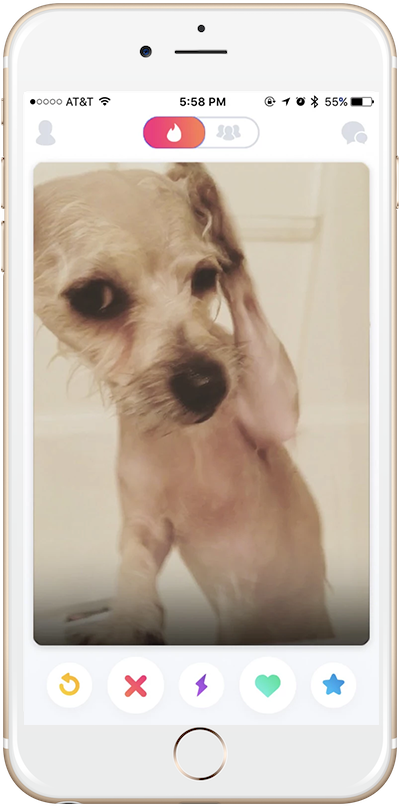
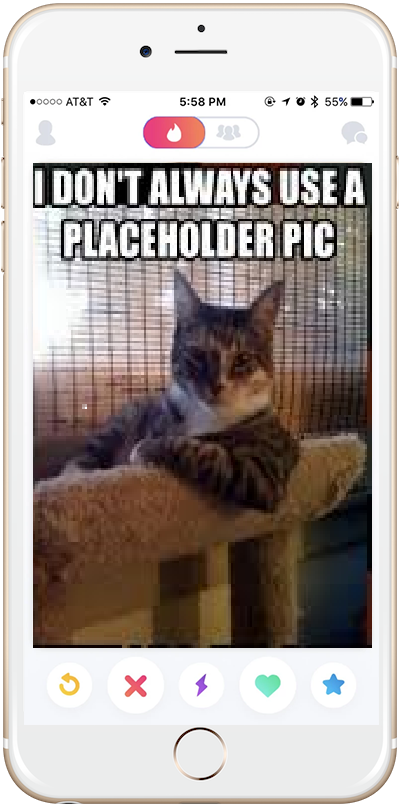
misc theme changes

diff --git a/index.html b/index.html
@@ -15,7 +15,7 @@
     <!-- Google Fonts -->
     <link href="https://fonts.googleapis.com/css?family=Montserrat:300,400,900&display=swap|Ubuntu&display=swap" rel="stylesheet">
 
-    <title>Placeholder</title>
+    <title>&#9749;The Placeholder</title>
 
   </head>
 
@@ -28,7 +28,7 @@
       Extra properties: "fixed-top" -->
 
         <nav class="navbar navbar-expand-lg navbar-dark">
-          <a class="navbar-brand" href="#">TinDog<i class="fas fa-trademark tm"></i></a>
+          <a class="navbar-brand" href="#">PlaceHolder<i class="fas fa-trademark tm"></i></a>
           <button class="navbar-toggler" type="button" data-toggle="collapse" data-target="#navbarSupportedContent" aria-controls="navbarSupportedContent" aria-expanded="false" aria-label="Toggle navigation">
             <span class="navbar-toggler-icon"></span>
           </button>
@@ -53,7 +53,7 @@
         <!-- Title -->
         <div class="row">
           <div class="col-lg-6">
-            <h1 class="promo-heading">Meet new and interesting dogs nearby.</h1>
+            <h1 class="promo-heading">Not just any generic placeholder!</h1>
             <button type="button" class="btn btn-lg btn-dark download-button"> <i class="fab fa-apple"></i> Download</button>
             <button type="button" class="btn btn-lg btn-outline-light download-button"><i class="fab fa-google-play"></i> Download</button>
           </div>
@@ -72,19 +72,19 @@
         <div class="col-lg-4 feature-box">
           <i class="fas fa-check-circle icons fa-5x"></i>
           <h3>Easy to use.</h3>
-          <p>So easy to use, even your dog could do it.</p>
+          <p>So easy to use, even a placeholder could do it.</p>
         </div>
 
         <div class="col-lg-4 feature-box">
           <i class="fas fa-bullseye icons fa-5x"></i>
           <h3>Elite Clientele</h3>
-          <p>We have all the dogs, the greatest dogs.</p>
+          <p>We have all the placeholders, the greatest placeholders.</p>
         </div>
 
         <div class="col-lg-4 feature-box">
           <i class="fas fa-heart icons fa-5x"></i>
           <h3>Guaranteed to work.</h3>
-          <p>Find the love of your dog's life or your money back.</p>
+          <p>The only placeholder you will ever need.</p>
         </div>
 
       </div>
@@ -97,12 +97,12 @@
       <div id="carouselExampleSlidesOnly" class="carousel slide" data-ride="carousel">
         <div class="carousel-inner carousel-container">
           <div class="carousel-item item1 active">
-            <h2>I no longer have to sniff other dogs for love. I've found the hottest Corgi on TinDog. Woof.</h2>
+            <h2>I no longer have to come up with things myself. I've found the greatest placeholders on PlaceHolder.</h2>
             <img class="image-icon" src="images/dog-img.jpg" alt="dog-profile">
             <em class="misc-text"><strong>Pebbles, New York</strong></em>
           </div>
           <div class="carousel-item item2">
-            <h2 class="testimonial-text">My dog used to be so lonely, but with TinDog's help, they've found the love of their life. I think.</h2>
+            <h2 class="testimonial-text">This placeholder changed my life. It is much more than just a simple placeholder. </h2>
             <img class="image-icon" src="images/lady-img.jpg" alt="lady-profile">
             <em class="misc-text"><strong>Beverly, Illinois</strong></em>
           </div>
@@ -127,20 +127,20 @@
 
     <section id="pricing">
 
-      <h2>A Plan for Every Dog's Needs</h2>
-      <p class="misc-text"><strong>Simple and affordable price plans for your and your dog.</strong></p>
+      <h2>A Plan for All Placeholder Needs</h2>
+      <p class="misc-text"><strong>Simple and affordable price plans for your everyday placeholder</strong></p>
 
       <div class="row pricing-cards">
         <div class="col-lg-4 col-md-6 pricing-column">
           <div class="card">
             <div class="card-header">
-              <h4 class="my-0 font-weight-normal">Chihuahua</h4>
+              <h4 class="my-0 font-weight-normal">Placeholder</h4>
             </div>
             <div class="card-body">
               <h1 class="card-title pricing-card-title">$0 <small class="text-muted">/ mo</small></h1>
               <ul class="list-unstyled mt-3 mb-4">
-                <li class="misc-text">5 Matches Per Day</li>
-                <li class="misc-text">10 Messages Per Day</li>
+                <li class="misc-text">5 Placeholders Per Day</li>
+                <li class="misc-text">10 Generic Stuff Per Day</li>
                 <li class="misc-text">Unlimited App Usage</li>
                 <br>
               </ul>
@@ -152,14 +152,14 @@
         <div class="col-lg-4 col-md-6 pricing-column">
           <div class="card">
             <div class="card-header">
-              <h4 class="my-0 font-weight-normal">Labrador</h4>
+              <h4 class="my-0 font-weight-normal">Deluxe Placeholder</h4>
             </div>
             <div class="card-body">
               <h1 class="card-title pricing-card-title">$49 <small class="text-muted">/ mo</small></h1>
               <ul class="list-unstyled mt-3 mb-4">
-                <li class="misc-text">Unlimited Matches</li>
-                <li class="misc-text">Unlimited Messages</li>
-                <li class="misc-text">Unlimited App Usage</li>
+                <li class="misc-text">Unlimited App usage</li>
+                <li class="misc-text">Unlimited Genericness</li>
+                <li class="misc-text">Unlimited Placeholders</li>
                 <br>
               </ul>
               <button type="button" class="btn btn-lg btn-block btn-dark">Get started</button>
@@ -170,15 +170,15 @@
         <div class="col-lg-4 pricing-column">
           <div class="card">
             <div class="card-header">
-              <h4 class="my-0 font-weight-normal">Mastiff</h4>
+              <h4 class="my-0 font-weight-normal">Ultra Super Placeholder</h4>
             </div>
             <div class="card-body">
               <h1 class="card-title pricing-card-title">$99 <small class="text-muted">/ mo</small></h1>
               <ul class="list-unstyled mt-3 mb-4">
-                <li class="misc-text"> Pirority Listing</li>
-                <li class="misc-text">Unlimited Matches</li>
-                <li class="misc-text">Unlimited Messages</li>
-                <li class="misc-text">Unlimited App Usage</li>
+                <li class="misc-text"> Priority Placeholding</li>
+                <li class="misc-text">Unlimited App usage</li>
+                <li class="misc-text">Unlimited Genericness</li>
+                <li class="misc-text">Unlimited Placeholders</li>
               </ul>
               <button type="button" class="btn btn-lg btn-block btn-dark">Contact us</button>
             </div>
@@ -193,7 +193,7 @@
 
     <section id="cta">
 
-      <h3 class="cta-text">Find the True Love of Your Dog's Life Today.</h3>
+      <h3 class="cta-text">Find the Perfect Placeholder for you and your loved ones, Today.</h3>
       <button type="button" class="btn btn-lg btn-dark download-button"> <i class="fab fa-apple"></i> Download</button>
       <button type="button" class="btn btn-lg btn-outline-light download-button"><i class="fab fa-google-play"></i> Download</button>
 
@@ -208,7 +208,7 @@
       <i class="footer-icons fab fa-instagram fa-3x"></i>
       <i class="footer-icons fas fa-envelope fa-3x"></i>
       <strong>
-        <p>© Copyright 2018 TinDog</p>
+        <p>© Copyright 2018 PlaceHolder</p>
       </strong>
 
     </footer>
